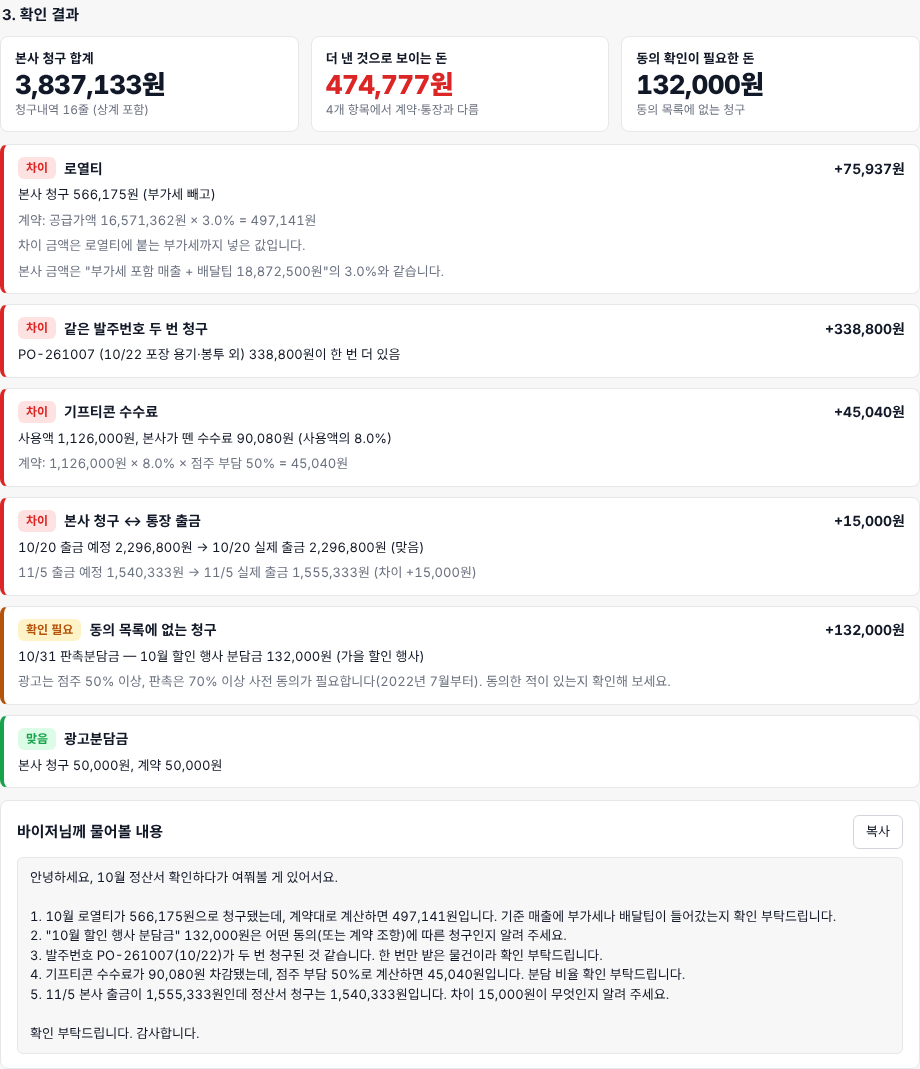
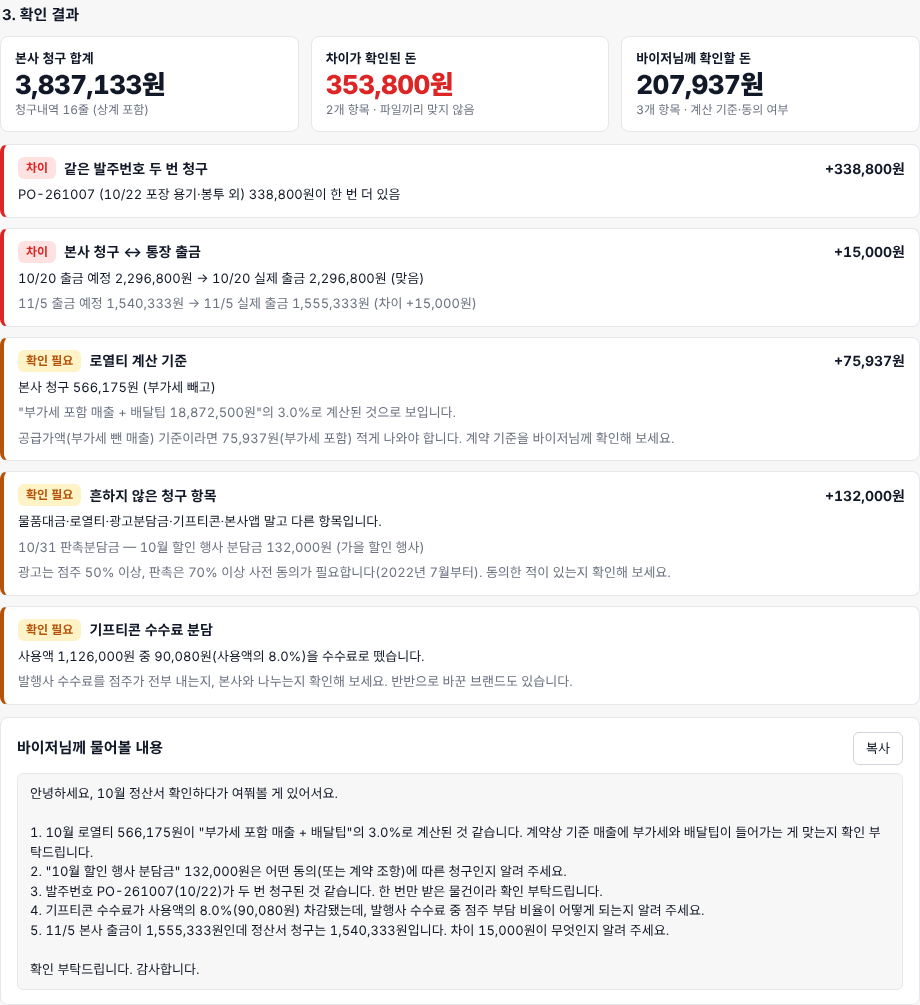
본사 정산 확인: 계약 조건을 선택으로, 엑셀 두 개만으로 짚고 질문 만들기
- 계약 없이: 로열티가 어떤 매출의 몇 %인지 거꾸로 짚기, 기프티콘 수수료 비율 질문, 흔하지 않은 청구 항목
- 계약 조건은 접힌 선택 칸, 저장 안 함
- simulation-hq.html: 계약 없이 5/5 짚음, 계약 넣은 결과와 나란히

Claude-Session: https://claude.ai/code/session_01D364GGR4dRw7373TxqHPAp

diff --git a/hq-check.html b/hq-check.html
@@ -71,6 +71,9 @@
   .contract label { display: grid; gap: 4px; font-size: 13px; color: var(--sub); }
   .contract input, .contract select { border: 1px solid var(--line-strong); background: var(--panel); border-radius: 6px; padding: 5px 8px; font-size: 14px; color: var(--ink); width: 100%; }
   .contract .row { display: flex; gap: 6px; align-items: center; }
+  #c-box summary { cursor: pointer; list-style-position: outside; }
+  #c-box[open] summary { margin-bottom: 8px; }
+  .use { display: flex; gap: 6px; align-items: center; font-size: 14px; margin: 4px 0 6px; }
   .agreed { display: flex; flex-wrap: wrap; gap: 6px 14px; font-size: 13px; }
   .agreed label { display: inline-flex; gap: 5px; align-items: center; color: var(--ink); }
   .kpis { display: grid; grid-template-columns: repeat(3, 1fr); gap: 12px; }
@@ -134,8 +137,10 @@
   </section>
 
   <section class="card pad" aria-labelledby="h2">
-    <h2 id="h2">2. 계약 조건</h2>
-    <p class="muted">가맹계약서에 적힌 대로 넣어 주세요. 처음 값은 예시 계약입니다.</p>
+    <details id="c-box">
+    <summary><h2 id="h2" style="display:inline">2. 계약 조건 (선택)</h2> <span class="muted">— 몰라도 됩니다. 아시면 더 정확히 봐요</span></summary>
+    <label class="use"><input type="checkbox" id="c-use"> 계약 조건으로도 계산하기 (로열티·광고분담금·기프티콘 분담)</label>
+    <p class="muted">가맹계약서에 적힌 숫자만 넣어 주세요. 계약서를 올릴 필요는 없고, 넣은 값은 저장되지 않습니다. 처음 값은 예시 계약입니다.</p>
     <div class="contract">
       <label>로열티 방식
         <select id="c-mode"><option value="rate">매출의 몇 % (정률)</option><option value="flat">매달 정해진 금액 (정액)</option></select>
@@ -154,6 +159,7 @@
     </div>
     <p class="muted" style="margin-top:12px">동의한 청구 항목 (계약서·동의서에 있는 것만 체크)</p>
     <div class="agreed" id="agreed"></div>
+    </details>
   </section>
 
   <section id="result" hidden aria-labelledby="h3">
@@ -256,7 +262,7 @@
   }).join('');
   function contract() {
     return {
-      mode: $('c-mode').value, rate: num($('c-rate').value) / 100, flat: num($('c-flat').value), basis: $('c-basis').value, tip: $('c-tip').value === 'yes',
+      use: $('c-use').checked, mode: $('c-mode').value, rate: num($('c-rate').value) / 100, flat: num($('c-flat').value), basis: $('c-basis').value, tip: $('c-tip').value === 'yes',
       ad: num($('c-ad').value), gfee: num($('c-gfee').value) / 100, gshare: num($('c-gshare').value) / 100,
       agreed: ITEMS.filter(function (k, i) { return $('ag-' + i).checked; })
     };
@@ -268,6 +274,7 @@
   document.querySelector('.contract').addEventListener('change', function () { syncForm(); render(); });
   document.querySelector('.contract').addEventListener('input', render);
   $('agreed').addEventListener('change', render);
+  $('c-use').addEventListener('change', render);
 
   // 확인
   function sumBy(list, f) { return list.reduce(function (s, x) { return s + f(x); }, 0); }
@@ -279,37 +286,48 @@
 
     // 1) 로열티
     var roy = cl.filter(function (r) { return /로열티/.test(r.k); }), royHq = sumBy(roy, function (r) { return r.sup; });
-    if (roy.length) {
+    var royVat = royHq ? sumBy(roy, function (r) { return r.vat; }) / royHq : 0.1;
+    var BASES = [['공급가액(부가세 뺀 매출)', sup, false], ['공급가액 + 배달팁', sup + tip, true], ['부가세 포함 매출', gross, true], ['부가세 포함 매출 + 배달팁', gross + tip, true]];
+    if (roy.length && C.use) {
       var ok, why;
       if (C.mode === 'flat') { ok = C.flat; why = '계약: 매달 ' + won(C.flat) + '원'; }
       else {
         var base = (C.basis === 'supply' ? sup : gross) + (C.tip ? tip : 0);
         ok = Math.round(base * C.rate);
         why = '계약: ' + (C.basis === 'supply' ? '공급가액' : '부가세 포함 매출') + (C.tip ? ' + 배달팁' : '') + ' ' + won(base) + '원 × ' + (C.rate * 100).toFixed(1) + '% = ' + won(ok) + '원';
-        if (!S.length) why += ' (매출집계 시트가 없어 기준 매출을 0으로 봄)';
       }
-      var royVat = royHq ? sumBy(roy, function (r) { return r.vat; }) / royHq : 0.1;
-      var d = Math.round((royHq - ok) * (1 + royVat)), guess = '';
-      if (Math.abs(d) > 10 && C.mode === 'rate' && S.length) {
-        [['부가세 포함 매출', gross], ['부가세 포함 매출 + 배달팁', gross + tip], ['공급가액 + 배달팁', sup + tip], ['공급가액', sup]].some(function (g) {
-          if (Math.abs(Math.round(g[1] * C.rate) - royHq) <= 10) { guess = '본사 금액은 "' + g[0] + ' ' + won(g[1]) + '원"의 ' + (C.rate * 100).toFixed(1) + '%와 같습니다.'; return true; }
-        });
+      var d = Math.round((royHq - ok) * (1 + royVat));
+      out.push({ id: 'royalty', title: '로열티 (계약과 비교)', status: Math.abs(d) <= 10 ? 'ok' : 'bad', amount: d,
+        lines: ['본사 청구 ' + won(royHq) + '원 (부가세 빼고)', why, '차이 금액은 로열티에 붙는 부가세까지 넣은 값입니다.'],
+        ask: Math.abs(d) > 10 ? '10월 로열티가 ' + won(royHq) + '원으로 청구됐는데, 계약대로 계산하면 ' + won(ok) + '원입니다. 기준 매출 확인 부탁드립니다.' : '' });
+    } else if (roy.length && S.length) {
+      // 계약 없이: 어떤 매출의 몇 %인지 거꾸로 짚기 (0.1% 단위로 딱 떨어지는 기준을 찾음)
+      var fits = BASES.filter(function (b) { return b[1] > 0; }).map(function (b) { var pct = royHq / b[1] * 100; return { name: b[0], base: b[1], pct: pct, extra: b[2], clean: Math.abs(pct * 10 - Math.round(pct * 10)) < 0.01 }; });
+      var hit = fits.filter(function (f) { return f.clean; })[0];
+      var lines = ['본사 청구 ' + won(royHq) + '원 (부가세 빼고)'];
+      if (hit) {
+        var r = Math.round(hit.pct * 10) / 10;
+        lines.push('"' + hit.name + ' ' + won(hit.base) + '원"의 ' + r.toFixed(1) + '%로 계산된 것으로 보입니다.');
+        var gap = hit.extra ? Math.round((royHq - Math.round(sup * r / 100)) * (1 + royVat)) : 0;
+        if (hit.extra) lines.push('공급가액(부가세 뺀 매출) 기준이라면 ' + won(gap) + '원(부가세 포함) 적게 나와야 합니다. 계약 기준을 바이저님께 확인해 보세요.');
+        out.push({ id: 'royalty', title: '로열티 계산 기준', status: hit.extra ? 'warn' : 'ok', amount: gap, lines: lines,
+          ask: hit.extra ? '10월 로열티 ' + won(royHq) + '원이 "' + hit.name + '"의 ' + r.toFixed(1) + '%로 계산된 것 같습니다. 계약상 기준 매출에 ' + (/부가세 포함/.test(hit.name) ? '부가세' : '') + (/부가세 포함/.test(hit.name) && /배달팁/.test(hit.name) ? '와 ' : '') + (/배달팁/.test(hit.name) ? '배달팁' : '') + '이 들어가는 게 맞는지 확인 부탁드립니다.' : '' });
+      } else {
+        lines.push('매출의 몇 %로 딱 떨어지지 않습니다. 정액 로열티이거나 다른 기준일 수 있습니다.');
+        out.push({ id: 'royalty', title: '로열티 계산 기준', status: 'ok', amount: 0, lines: lines, ask: '' });
       }
-      out.push({ id: 'royalty', title: '로열티', status: Math.abs(d) <= 10 ? 'ok' : 'bad', amount: d,
-        lines: ['본사 청구 ' + won(royHq) + '원 (부가세 빼고)', why, '차이 금액은 로열티에 붙는 부가세까지 넣은 값입니다.'].concat(guess ? [guess] : []),
-        ask: Math.abs(d) > 10 ? '10월 로열티가 ' + won(royHq) + '원으로 청구됐는데, 계약대로 계산하면 ' + won(ok) + '원입니다. 기준 매출에 부가세나 배달팁이 들어갔는지 확인 부탁드립니다.' : '' });
     }
     // 2) 광고분담금
     var ad = cl.filter(function (r) { return /광고/.test(r.k); }), adHq = sumBy(ad, function (r) { return r.sup; });
-    if (ad.length) {
+    if (ad.length && C.use) {
       d = Math.round((adHq - C.ad) * 1.1);
       out.push({ id: 'ad', title: '광고분담금', status: Math.abs(d) <= 10 ? 'ok' : 'bad', amount: d, lines: ['본사 청구 ' + won(adHq) + '원, 계약 ' + won(C.ad) + '원'],
         ask: Math.abs(d) > 10 ? '광고분담금이 계약 금액(' + won(C.ad) + '원)과 다르게 ' + won(adHq) + '원 청구됐습니다. 사유 확인 부탁드립니다.' : '' });
     }
     // 3) 동의 안 한 항목
     var odd = cl.filter(function (r) { return !C.agreed.some(function (a) { return r.k.indexOf(a) >= 0 || (a === '광고분담금' && /광고/.test(r.k)); }); });
-    out.push({ id: 'agreed', title: '동의 목록에 없는 청구', status: odd.length ? 'warn' : 'ok', amount: sumBy(odd, function (r) { return r.amt; }),
-      lines: odd.length ? odd.map(function (r) { return md(r.d) + ' ' + r.k + ' — ' + r.what + ' ' + won(r.amt) + '원' + (r.note ? ' (' + r.note + ')' : ''); }).concat(['광고는 점주 50% 이상, 판촉은 70% 이상 사전 동의가 필요합니다(2022년 7월부터). 동의한 적이 있는지 확인해 보세요.']) : ['체크한 항목 밖의 청구가 없습니다.'],
+    out.push({ id: 'agreed', title: C.use ? '동의 목록에 없는 청구' : '흔하지 않은 청구 항목', status: odd.length ? 'warn' : 'ok', amount: sumBy(odd, function (r) { return r.amt; }),
+      lines: odd.length ? (C.use ? [] : ['물품대금·로열티·광고분담금·기프티콘·본사앱 말고 다른 항목입니다.']).concat(odd.map(function (r) { return md(r.d) + ' ' + r.k + ' — ' + r.what + ' ' + won(r.amt) + '원' + (r.note ? ' (' + r.note + ')' : ''); })).concat(['광고는 점주 50% 이상, 판촉은 70% 이상 사전 동의가 필요합니다(2022년 7월부터). 동의한 적이 있는지 확인해 보세요.']) : ['체크한 항목 밖의 청구가 없습니다.'],
       ask: odd.length ? odd.map(function (r) { return '"' + r.what + '" ' + won(r.amt) + '원은 어떤 동의(또는 계약 조항)에 따른 청구인지 알려 주세요.'; }).join('\n') : '' });
     // 4) 발주번호 중복
     var seen = {}, dups = [];
@@ -322,12 +340,19 @@
     if (g.length) {
       var use = -sumBy(g.filter(function (r) { return r.amt < 0; }), function (r) { return r.amt; });
       var feeHq = sumBy(g.filter(function (r) { return r.amt > 0; }), function (r) { return r.amt; });
-      var feeOk = Math.round(use * C.gfee * C.gshare);
-      d = feeHq - feeOk;
-      out.push({ id: 'gift', title: '기프티콘 수수료', status: Math.abs(d) <= 10 ? 'ok' : 'bad', amount: d,
-        lines: ['사용액 ' + won(use) + '원, 본사가 뗀 수수료 ' + won(feeHq) + '원 (사용액의 ' + (use ? (feeHq / use * 100).toFixed(1) : 0) + '%)',
-          '계약: ' + won(use) + '원 × ' + (C.gfee * 100).toFixed(1) + '% × 점주 부담 ' + Math.round(C.gshare * 100) + '% = ' + won(feeOk) + '원'],
-        ask: Math.abs(d) > 10 ? '기프티콘 수수료가 ' + won(feeHq) + '원 차감됐는데, 점주 부담 ' + Math.round(C.gshare * 100) + '%로 계산하면 ' + won(feeOk) + '원입니다. 분담 비율 확인 부탁드립니다.' : '' });
+      var pctUse = use ? feeHq / use * 100 : 0;
+      if (C.use) {
+        var feeOk = Math.round(use * C.gfee * C.gshare);
+        d = feeHq - feeOk;
+        out.push({ id: 'gift', title: '기프티콘 수수료 (계약과 비교)', status: Math.abs(d) <= 10 ? 'ok' : 'bad', amount: d,
+          lines: ['사용액 ' + won(use) + '원, 본사가 뗀 수수료 ' + won(feeHq) + '원 (사용액의 ' + pctUse.toFixed(1) + '%)',
+            '계약: ' + won(use) + '원 × ' + (C.gfee * 100).toFixed(1) + '% × 점주 부담 ' + Math.round(C.gshare * 100) + '% = ' + won(feeOk) + '원'],
+          ask: Math.abs(d) > 10 ? '기프티콘 수수료가 ' + won(feeHq) + '원 차감됐는데, 점주 부담 ' + Math.round(C.gshare * 100) + '%로 계산하면 ' + won(feeOk) + '원입니다. 분담 비율 확인 부탁드립니다.' : '' });
+      } else if (feeHq > 0) {
+        out.push({ id: 'gift', title: '기프티콘 수수료 분담', status: 'warn', amount: 0,
+          lines: ['사용액 ' + won(use) + '원 중 ' + won(feeHq) + '원(사용액의 ' + pctUse.toFixed(1) + '%)을 수수료로 뗐습니다.', '발행사 수수료를 점주가 전부 내는지, 본사와 나누는지 확인해 보세요. 반반으로 바꾼 브랜드도 있습니다.'],
+          ask: '기프티콘 수수료가 사용액의 ' + pctUse.toFixed(1) + '%(' + won(feeHq) + '원) 차감됐는데, 발행사 수수료 중 점주 부담 비율이 어떻게 되는지 알려 주세요.' });
+      }
     }
     // 6) 청구 ↔ 통장 출금
     var byDue = {};
@@ -357,8 +382,8 @@
     var nBad = res.checks.filter(function (c) { return c.status === 'bad'; }).length;
     $('kpis').innerHTML =
       '<div class="card kpi"><p class="label">본사 청구 합계</p><div class="num">' + won(res.total) + '원</div><p class="desc">청구내역 ' + data.claims.length + '줄 (상계 포함)</p></div>' +
-      '<div class="card kpi"><p class="label">더 낸 것으로 보이는 돈</p><div class="num red">' + won(over) + '원</div><p class="desc">' + nBad + '개 항목에서 계약·통장과 다름</p></div>' +
-      '<div class="card kpi"><p class="label">동의 확인이 필요한 돈</p><div class="num">' + won(warn) + '원</div><p class="desc">동의 목록에 없는 청구</p></div>';
+      '<div class="card kpi"><p class="label">차이가 확인된 돈</p><div class="num red">' + won(over) + '원</div><p class="desc">' + nBad + '개 항목 · 파일끼리 맞지 않음' + (contract().use ? '·계약과 다름' : '') + '</p></div>' +
+      '<div class="card kpi"><p class="label">바이저님께 확인할 돈</p><div class="num">' + won(warn) + '원</div><p class="desc">' + res.checks.filter(function (c) { return c.status === 'warn'; }).length + '개 항목 · 계산 기준·동의 여부</p></div>';
     var LBL = { ok: ['green', '맞음'], bad: ['red', '차이'], warn: ['amber', '확인 필요'] }, rank = { bad: 0, warn: 1, ok: 2 };
     $('checks').innerHTML = res.checks.slice().sort(function (a, b) { return rank[a.status] - rank[b.status]; }).map(function (c) {
       return '<div class="card check ' + c.status + '"><div class="check-head"><span class="pill ' + LBL[c.status][0] + '">' + LBL[c.status][1] + '</span><h3>' + c.title + '</h3>' +

diff --git a/simulation-hq.html b/simulation-hq.html
@@ -96,9 +96,9 @@
     <h2>바이저가 내려준 본사 정산서를 사장님 편에서 검증해 봤습니다</h2>
     <p>1부(배달 정산)에는 본사가 없었습니다. 그런데 찾아본 범위에서는 가맹점주가 본사 정산서를 검증하는 서비스가 없었습니다. 본사용 도구는 가맹점에서 받을 돈을 관리하고, 점주용 매출 앱은 카드·배달앱과 통장만 맞춥니다. 그래서 같은 가상 분식 가맹점의 10월 본사 정산서를 만들고, 문제 5개를 심은 뒤 새로 만든 "본사 정산 확인" 화면에 넣어 봤습니다.</p>
     <div class="summary">
-      <div class="card"><span class="l">찾은 문제</span><span class="n green">5 / 5</span><span class="l">정상 항목 2개는 "맞음"으로 나옴</span></div>
-      <div class="card"><span class="l">더 낸 것으로 보이는 돈</span><span class="n red">474,777원</span><span class="l">로열티·중복 발주·기프티콘·출금 차이</span></div>
-      <div class="card"><span class="l">동의 확인이 필요한 돈</span><span class="n">132,000원</span><span class="l">동의 목록에 없는 판촉분담금</span></div>
+      <div class="card"><span class="l">계약 조건 없이</span><span class="n green">5 / 5</span><span class="l">엑셀 두 개만 올려서 문제 5개 모두 짚음</span></div>
+      <div class="card"><span class="l">차이가 확인된 돈</span><span class="n red">353,800원</span><span class="l">중복 발주, 청구와 다른 출금</span></div>
+      <div class="card"><span class="l">바이저님께 확인할 돈</span><span class="n">207,937원</span><span class="l">로열티 기준, 판촉분담금 + 기프티콘 분담</span></div>
     </div>
   </section>
 
@@ -128,6 +128,7 @@
   <section>
     <p class="step">2단계 · 예시 파일과 계약</p>
     <h2>본사 정산서 1개(시트 2개)와 1부의 통장 거래내역</h2>
+    <p>사장님이 올리는 건 이 두 파일뿐입니다. 계약 조건은 몰라도 되고, 아시는 경우에만 접힌 칸을 열어 넣습니다.</p>
     <div class="tbl"><table>
       <thead><tr><th>파일</th><th>내용</th></tr></thead>
       <tbody>
@@ -140,7 +141,7 @@
       <h3>본사 정산서 칸</h3>
       <div class="cols"><code>구분</code><code>건수</code><code>매출액(부가세포함)</code><code>공급가액</code><code>부가세</code><code>고객 배달팁</code></div>
       <div class="cols"><code>청구일</code><code>구분</code><code>발주번호</code><code>내용</code><code>공급가액</code><code>부가세</code><code>청구금액</code><code>출금예정일</code><code>비고</code></div>
-      <h3>예시 계약 (사장님이 화면에 넣는 값)</h3>
+      <h3>예시 계약 (선택 칸에 넣었을 때만 쓰는 값)</h3>
       <ul class="clean">
         <li>로열티: 공급가액(부가세 뺀 매출)의 3%, 고객 배달팁은 빼고</li>
         <li>광고분담금: 월 50,000원 (부가세 별도)</li>
@@ -150,29 +151,33 @@
     </div>
     <figure>
       <img src="docs/sim/hq-contract.png" alt="본사 정산 확인 화면의 계약 조건 입력" loading="lazy">
-      <figcaption>계약 조건 입력. 정액 로열티 브랜드는 "매달 정해진 금액"으로 바꾸면 됩니다.</figcaption>
+      <figcaption>계약 조건은 접힌 선택 칸. 넣은 값은 저장되지 않습니다.</figcaption>
     </figure>
   </section>
 
   <section>
     <p class="step">3단계 · 정답지와 결과</p>
-    <h2>심은 문제 5개를 모두 찾았습니다</h2>
+    <h2>계약 조건 없이도 문제 5개를 모두 짚었습니다</h2>
+    <p>처음에는 계약 조건을 넣어야 로열티와 기프티콘을 계산하게 만들었습니다. 그런데 정확히 계산하려면 계약·특약·변경 이력까지 필요해, 사장님께 너무 많은 정보를 요구하게 됩니다. 그래서 <b>정답을 계산하는 대신, 이상한 곳을 짚고 바이저님께 물어볼 질문을 만드는 것</b>을 기본으로 바꿨습니다.</p>
     <div class="tbl"><table>
-      <thead><tr><th>#</th><th>심은 문제</th><th>도구가 보여 준 것</th><th class="r">금액</th></tr></thead>
+      <thead><tr><th>#</th><th>심은 문제</th><th>계약 조건 없이 (기본)</th><th>계약 조건을 넣으면</th></tr></thead>
       <tbody>
-        <tr><td>1</td><td>로열티를 부가세 포함 매출 + 배달팁으로 계산</td><td><span class="pill red">차이</span> 계약대로면 497,141원인데 566,175원 청구. "본사 금액은 부가세 포함 매출 + 배달팁의 3%와 같다"고 계산 방식까지 짚음</td><td class="r">+75,937</td></tr>
-        <tr><td>2</td><td>같은 발주번호 PO-261007이 두 번 청구됨</td><td><span class="pill red">차이</span> 10/22 포장 용기 발주가 한 번 더 있음</td><td class="r">+338,800</td></tr>
-        <tr><td>3</td><td>기프티콘 수수료를 점주가 100% 냄</td><td><span class="pill red">차이</span> 사용액의 8.0%를 뗐는데 계약대로면 4.0%</td><td class="r">+45,040</td></tr>
-        <tr><td>4</td><td>11/5 본사 출금이 청구보다 15,000원 많음</td><td><span class="pill red">차이</span> 10/20 출금은 맞음, 11/5 출금만 다름</td><td class="r">+15,000</td></tr>
-        <tr><td>5</td><td>동의 목록에 없는 판촉분담금</td><td><span class="pill amber">확인 필요</span> 할인 행사 분담금, 사전 동의 기준 안내</td><td class="r">132,000</td></tr>
-        <tr><td>-</td><td>광고분담금 (정상)</td><td><span class="pill green">맞음</span></td><td class="r">0</td></tr>
-        <tr><td>-</td><td>본사앱 주문 지급 (정상)</td><td>청구 합계에 상계로 들어가 출금과 맞음</td><td class="r">0</td></tr>
+        <tr><td>1</td><td>로열티를 부가세 포함 매출 + 배달팁으로 계산</td><td><span class="pill amber">확인 필요</span> "부가세 포함 매출 + 배달팁의 3.0%로 계산된 것으로 보임", 공급가액 기준이면 75,937원 적어야 함</td><td><span class="pill red">차이</span> +75,937원</td></tr>
+        <tr><td>2</td><td>같은 발주번호 PO-261007 두 번 청구</td><td><span class="pill red">차이</span> +338,800원</td><td>같음</td></tr>
+        <tr><td>3</td><td>기프티콘 수수료를 점주가 100% 냄</td><td><span class="pill amber">확인 필요</span> 사용액의 8.0%를 뗐음, 분담 비율 질문</td><td><span class="pill red">차이</span> +45,040원</td></tr>
+        <tr><td>4</td><td>11/5 출금이 청구보다 15,000원 많음</td><td><span class="pill red">차이</span> +15,000원</td><td>같음</td></tr>
+        <tr><td>5</td><td>판촉분담금 (동의 여부 불명)</td><td><span class="pill amber">확인 필요</span> 흔하지 않은 항목 132,000원, 사전 동의 기준 안내</td><td>같음</td></tr>
+        <tr><td>-</td><td>광고분담금 (정상)</td><td>계약 없이는 보지 않음</td><td><span class="pill green">맞음</span></td></tr>
       </tbody>
     </table></div>
-    <p>로열티 차이는 처음에 부가세를 뺀 69,034원으로 나왔습니다. 로열티에도 부가세가 붙어 실제로는 75,937원이 더 나가므로, 차이 금액에 부가세를 넣도록 고쳤습니다. 숫자는 예시 파일을 만든 코드에서 따로 계산해 맞춰 봤습니다.</p>
+    <p>결과 끝에는 바이저님께 보낼 질문 5개가 자동으로 정리됩니다. 숫자는 예시 파일을 만든 코드에서 따로 계산해 맞춰 봤습니다. 로열티 차이는 로열티에 붙는 부가세까지 넣은 금액입니다.</p>
     <figure>
-      <img src="docs/sim/hq-result.png" alt="본사 정산 확인 결과. 차이 4개, 확인 필요 1개, 맞음 1개와 바이저에게 물어볼 내용" loading="lazy">
-      <figcaption>결과 화면. 맨 아래에 바이저님께 보낼 질문이 자동으로 정리됩니다.</figcaption>
+      <img src="docs/sim/hq-result.png" alt="계약 조건 없이 본사 정산 확인 결과. 차이 2개, 확인 필요 3개와 바이저에게 물어볼 내용" loading="lazy">
+      <figcaption>계약 조건 없이 돌린 결과. 맨 아래에 바이저님께 보낼 질문이 정리됩니다.</figcaption>
+    </figure>
+    <figure>
+      <img src="docs/sim/hq-result-contract.png" alt="계약 조건을 넣고 돌린 결과. 차이 4개, 확인 필요 1개, 맞음 1개" loading="lazy">
+      <figcaption>예시 계약을 넣고 돌린 결과. 확인 필요였던 항목이 금액이 있는 "차이"로 바뀝니다.</figcaption>
     </figure>
   </section>
 
@@ -182,7 +187,7 @@
     <div class="card">
       <ul class="clean">
         <li><b>실제 엑셀 양식.</b> 시트가 몇 개인지, 매출 집계가 있는지 청구만 있는지에 따라 로열티 검사가 달라집니다. 매출 집계가 없으면 포스 매출을 따로 넣어야 합니다.</li>
-        <li><b>사장님이 계약 조건을 알아야 함.</b> 계약서를 모르셔도, 도구가 "본사가 어떤 기준으로 계산했는지"를 짚어 주므로 그걸로 바이저에게 물어볼 수 있습니다.</li>
+        <li><b>지난달과 비교.</b> 두 달치 정산서를 함께 올리면 갑자기 늘어난 항목을 짚을 수 있습니다. 아직 만들지 않았습니다.</li>
         <li><b>물품 마진 자체는 계산 못 함.</b> 적정 도매가를 넘는 부분은 점주 파일만으로 알 수 없어서, 중복 청구와 단가 변동까지만 봅니다. 정보공개서의 평균 수치와 비교하는 기능을 생각해 볼 수 있습니다.</li>
         <li><b>정액 로열티 브랜드.</b> 로열티 검사는 단순해지고, 물품대금·기프티콘·판촉분담금이 더 중요해집니다.</li>
       </ul>
@@ -192,7 +197,7 @@
 
   <section>
     <h2>직접 해 보기</h2>
-    <p>"본사 정산 확인" 화면에서 <b>예시 → 바로 해 보기</b>를 누르면 이 기록과 같은 결과가 나옵니다. 계약 조건을 바꾸면 결과가 바로 바뀝니다.</p>
+    <p>"본사 정산 확인" 화면에서 <b>예시 → 바로 해 보기</b>를 누르면 이 기록과 같은 결과가 나옵니다. 계약 조건 칸을 열어 "계약 조건으로도 계산하기"를 켜면 두 번째 결과가 나옵니다.</p>
     <div class="cta"><a class="btn primary" href="hq-check.html">본사 정산 확인 열기</a><a class="btn" href="simulation.html">1부: 배달 정산 기록</a></div>
   </section>
 

diff --git a/README.md b/README.md
@@ -9,7 +9,7 @@
 - `dashboard.html` 배달 정산 (대시보드형)
 - `upload.html` 내 파일로 맞추기: 배달앱 정산서·통장 엑셀 올려 맞추기 (브라우저 안에서만)
 
-- `hq-check.html` **본사 정산 확인**: 바이저가 내려준 본사 정산서(매출집계·청구내역) + 통장 + 계약 조건 → 로열티 재계산, 광고분담금, 동의 안 한 청구, 발주번호 중복, 기프티콘 수수료 분담, 청구 ↔ 통장 출금
+- `hq-check.html` **본사 정산 확인**: 바이저가 내려준 본사 정산서(매출집계·청구내역) + 통장만으로 → 발주번호 중복, 청구 ↔ 통장 출금, 로열티 계산 기준 짚기, 흔하지 않은 청구, 기프티콘 분담 질문. 계약 조건(선택, 저장 안 함)을 넣으면 → 로열티 재계산, 광고분담금, 동의 안 한 청구, 발주번호 중복, 기프티콘 수수료 분담, 청구 ↔ 통장 출금
 - `simulation-hq.html` 본사 정산 시뮬레이션 기록 (예시 계약, 문제 5개 → 5/5)
 - `simulation.html` 시뮬레이션 기록: 현실형 예시 파일(`samples/`)로 맞추기를 돌려 본 과정·결과 (1차 0/6 → 고친 뒤 6/6)
 - `intro.html` 소개 페이지: 세무사·제휴처에 보여 줄 한 장짜리 소개 (이름·연락처 없음)
